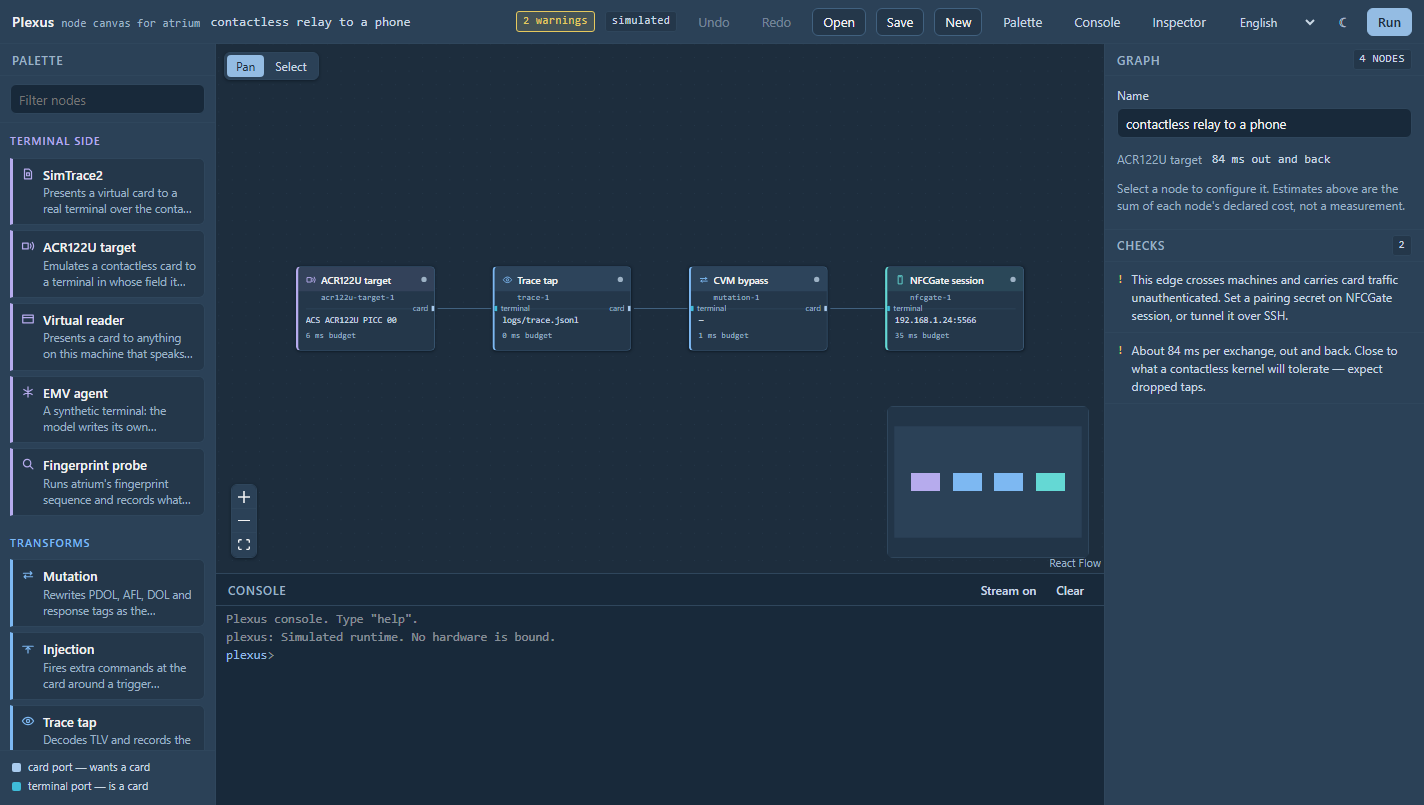
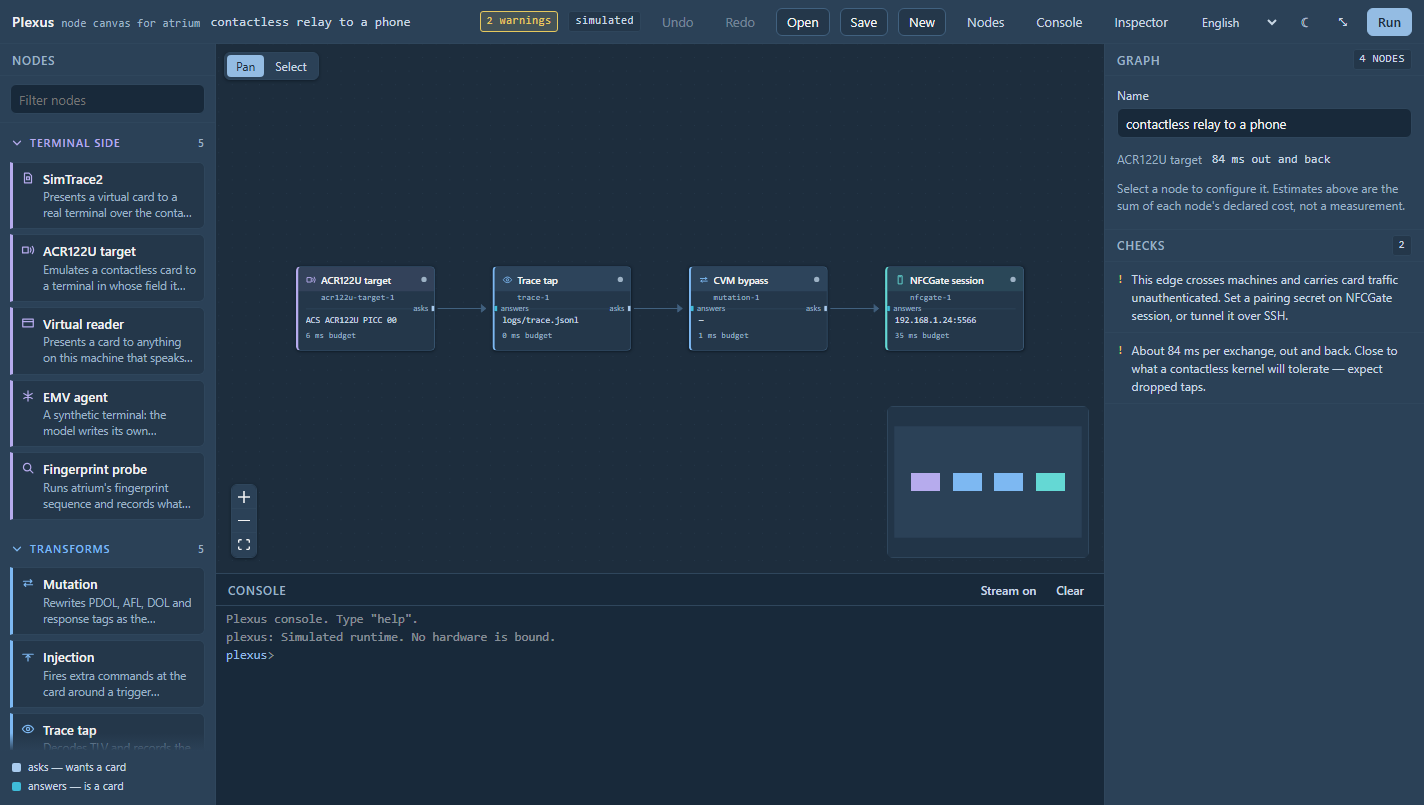
The manual showed the editor; the page GitHub actually opens did not
docs/README.md has had screenshots since it was written. The root README — the
one on the repository's front page — had none, so anyone deciding whether this
was worth cloning read two hundred lines about a canvas they could not see.

Eight, placed where the prose already explains them: the editor and its light
palette at the top, the failing checks under the section about what it refuses
to arm, the import review under "a graph is untrusted input", Spanish under the
languages section, a running graph under the console, the runnable rig under
"running it", and the inspector beside the claim that a mutation node's config
is an atrium playbook.

Regenerated rather than reused, so they show the editor as it is after the
palette became Nodes and the attribution badge came off the canvas — and after
the edge work in the commit before this one. One shot carries all three.

diff --git a/README.md b/README.md
@@ -7,6 +7,14 @@ while it is running.
 Designed and provided by **[academy.salmg.net](https://academy.salmg.net)**.
 The manual is in [docs/](docs/README.md).
 
+![The editor with the example rig loaded: nodes on the left, the checks on the right, the console beneath](docs/images/01-overview.png)
+
+It follows your system theme, and the toggle in the top bar overrides it. The
+light palette is a set of blues rather than a washed-out version of the dark
+one; both were measured against WCAG on every surface they use.
+
+![The same rig in light mode](docs/images/02-light-mode.png)
+
 > **Authorized use only.** For security research on cards, terminals and hosts
 > you own or have written permission to test. Same terms as atrium.
 
@@ -64,6 +72,12 @@ the second node, with the reason on screen.
   specification, so it warns rather than refuses — see `TAP_BUDGET_WARN_MS`,
   which carries the reason there is one of it and not two.
 
+A graph that fails these will not arm: Run greys out, the count in the top bar
+turns red, and every check names the node it is about rather than describing a
+category of problem.
+
+![A graph that will not arm — three errors and two warnings, each naming its node](docs/images/05-checks.png)
+
 ## A graph is untrusted input
 
 A `.plexus.yaml` is a document people send each other, and it names hardware to
@@ -100,6 +114,8 @@ claim, dial and write, and loads nothing until you say so. That is an
 informed-consent step, not a boundary — the boundary is the workspace and the
 checks, which do not depend on anyone reading a dialog.
 
+![The import review — what the graph will claim, dial, and read or write, before anything is loaded](docs/images/06-import-review.png)
+
 Still true, and deliberate: **there is no authentication on loopback.** Same
 position atrium takes — the operating system already decides who can open a
 local socket. Binding anywhere else refuses to start without
@@ -116,6 +132,8 @@ The runtime's own words stay in English: they arrive already written, over the
 socket, and translating half a trace would be worse than leaving it whole.
 Adding a third language is one file and no framework — see
 [docs/languages.md](docs/languages.md).
+
+![The editor in Spanish, including the checks and the port labels it generates rather than stores](docs/images/03-espanol.png)
 
 ## The console
 
@@ -136,6 +154,8 @@ plexus> pause
 
 The same console works against the simulator and against a card, because both
 answer the same protocol.
+
+![A running graph — the live APDU trace beneath the canvas, Stop armed in the top bar](docs/images/08-running.png)
 
 ---
 
@@ -219,6 +239,11 @@ The last two lines are the point: what the card said, and what the terminal was
 told. `plexus nodes` marks which node types this build can actually bind — the
 rest name the hardware or daemon they need and refuse at bind time.
 
+The same rig in the editor, where the checks say up front what the CLI can only
+prove by running it — *nothing to fix, this graph is ready to arm*:
+
+![A rig that will run with no hardware in it](docs/images/07-runnable-rig.png)
+
 Tests:
 
 ```bash
@@ -271,6 +296,8 @@ Every node in the catalogue maps onto something that already exists there: a
 `CardTransport` implementation, a `SmartcardOS`, or the `on_command` /
 `on_response` pair the mutation engine exposes. A mutation node's config *is*
 an atrium playbook — the files in `vendor/atrium/playbooks/` paste in unchanged.
+
+![A mutation node selected, with its atrium playbook inline in the inspector](docs/images/04-inspector.png)
 
 ## What is not built yet
 
